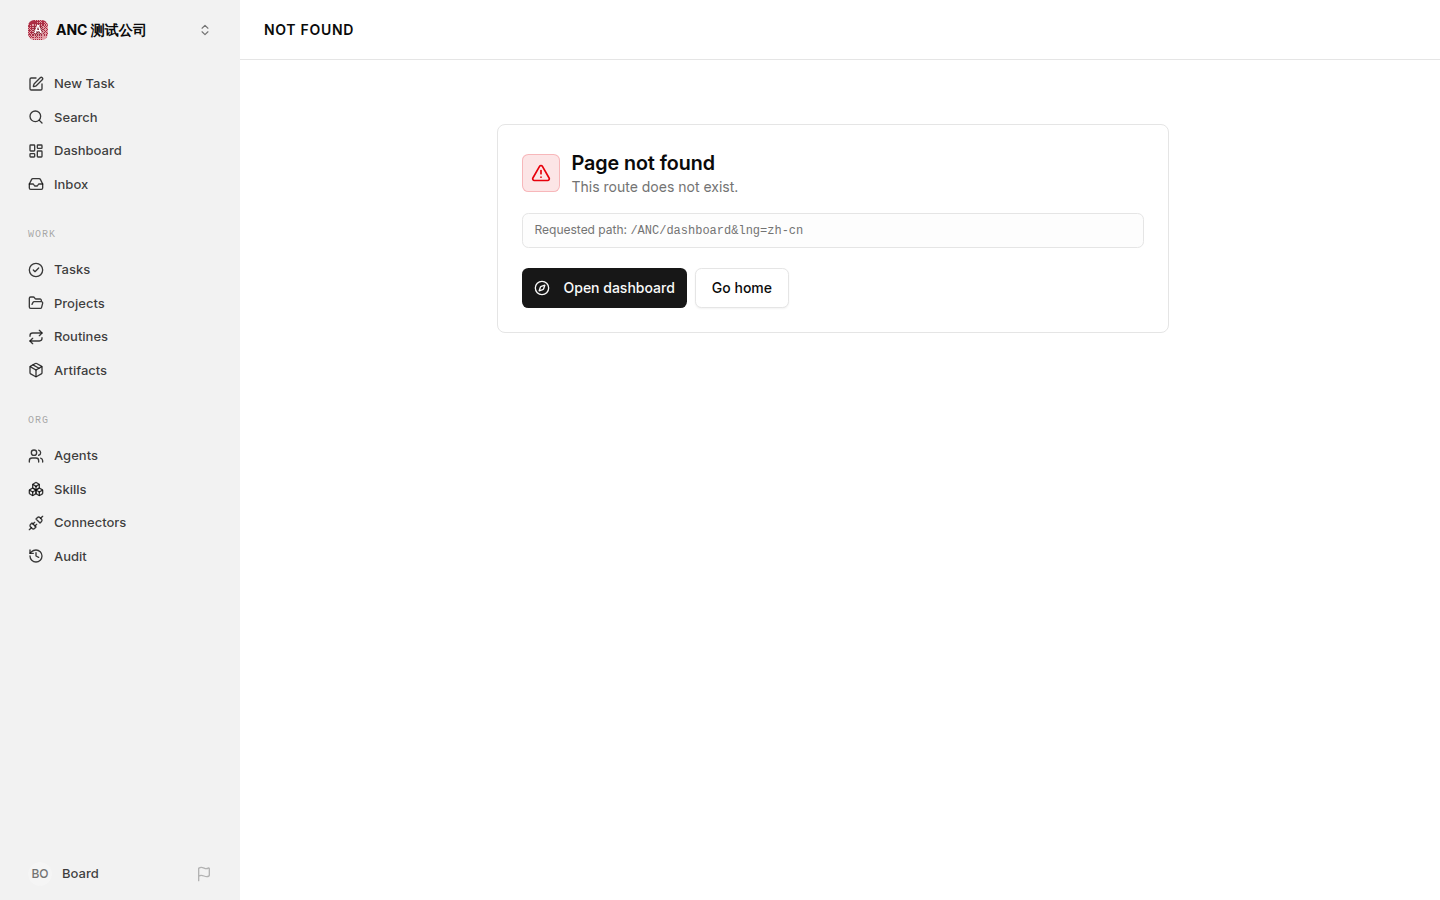
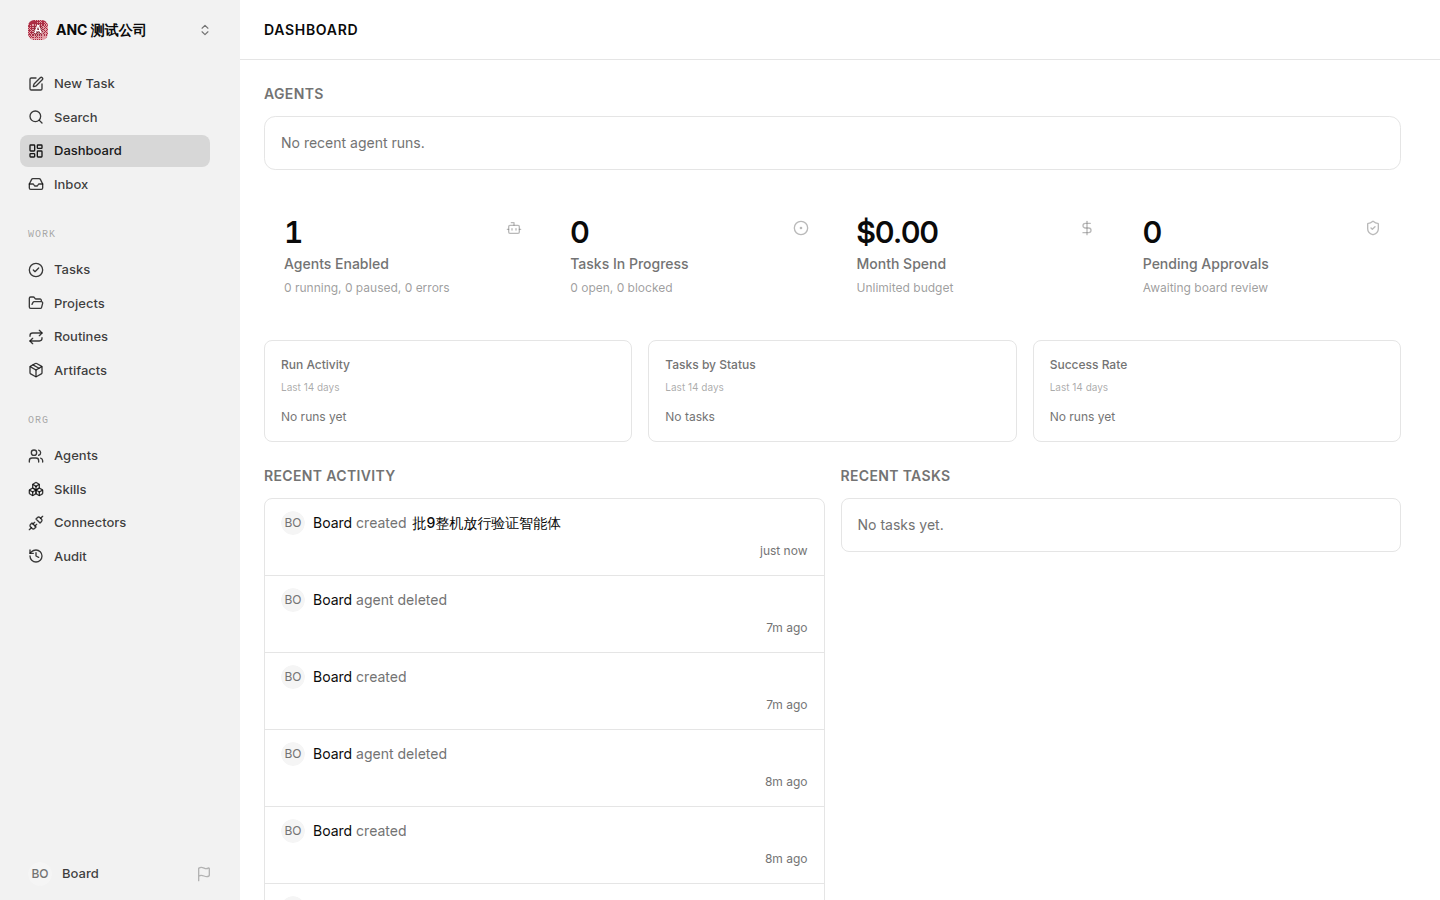
docs(i18n): 记录第 9 批（仪表盘本体）整机放行证据
复验对象：代码提交 b30ad5edf，前端交付提交 0b3ee1241。结论：放行通过，跳过数 0。

diff --git a/交付/TOK-213/放行记录.md b/交付/TOK-213/放行记录.md
@@ -744,3 +744,106 @@
 - 跳过统计：所有测试、构建、Gate、失败路径与正常路径全量执行，**跳过数为 0**。
 - 三选一结论：**第 8 批（侧栏收尾：服务器信息调试面板）放行通过。**
 - 下一步处置：本结论仅放行第 8 批，不代表 TOK-213 全站汉化完成；工单保持 `in_progress`，交付开发部负责人（`agent://e49c1f9a-94cb-44b8-a80b-93ad76a725f2`），由负责人裁定放行并派发第 9 批（仪表盘本体：`ActiveAgentsPanel`／`ActivityCharts`／`ActivityRow`／`timeAgo`）。
+
+
+## 十七、第 9 批整机复验（仪表盘本体：ActiveAgentsPanel/ActivityCharts/ActivityRow/timeAgo，2026-09-20）
+
+### 17.1 验证候选与集成边界
+
+- 验证基线：分支 `feat/anc-zh-cn`，前序放行证据提交 `f08d74b93`。
+- 候选提交：代码提交 `b30ad5edf`（`feat(i18n): 第 9 批 仪表盘本体（ActiveAgentsPanel/ActivityCharts/ActivityRow/timeAgo）接入 t()`），前端交付提交 `0b3ee1241`（`docs(i18n): 第 9 批浏览器证据与台账 §16`）。
+- 范围与文件：
+  - `ui/src/components/ActiveAgentsPanel.tsx`
+  - `ui/src/components/ActivityCharts.tsx`
+  - `ui/src/components/ActivityRow.tsx`
+  - `ui/src/lib/timeAgo.ts`
+  - 40 个 locale json 文件（全量同步）
+- 关键范围裁定复核：
+  1. `timeAgo.ts` 使用模块级单例 `t` 导出（`import { t } from "../i18n"`），保持函数签名不变，避免影响 30+ 处调用方；验证确认调用处所在组件随语言变化重渲染，文案正确联动；
+  2. `ActiveAgentsPanel.tsx` 调用同批翻译的 `timeAgo` 替换原 `relativeTime`，消除中文前缀与英文相对时间混杂（例如「{{time}}完成」与「5分钟前」组合规范），未越界改动 `utils.ts`。两项裁定均经实测验证，裁定合理且通过。
+
+### 17.2 失败路径（先验）
+
+| Gate / 失败项 | 故意失败输入 / 测试方法 | 实际输出 | 判定 |
+|---|---|---|---|
+| Token Gate 2（任意方括号值） | 在 `ui/src/components/ActivityRow.tsx:32` 故意引入 `/* test w-[999px] */` 执行 `node scripts/check-token-gates.mjs` | 准确拦截：`Gate 2 (arbitrary bracket vals): 1 violation(s)`，指出 `ui/src/components/ActivityRow.tsx:32 w-[999px]`，exit 1 | **通过**；护栏代码强制拒绝违规 |
+| Token Gate 2 恢复后断言 | 撤销故意违规后执行 `node scripts/check-token-gates.mjs` | `Files scanned: 1031`；Gate 1/2/3/4 全部 `CLEAN`；`All gates clean.`，exit 0 | **通过** |
+| 语言码精确匹配（大小写敏感） | 浏览器访问 `/ANC/dashboard?lng=zh-cn`（错误的小写区域码） | `<html lang="en">`，导航、卡片标题与状态保持英文，未误识别为 `zh-CN` | **通过** |
+| 未知/不支持的语言代码 | 浏览器访问 `/ANC/dashboard?lng=unknown-locale` | `<html lang="en">`，平稳回退默认语言，渲染英文仪表盘 | **通过** |
+| 损坏/非法的 localStorage 偏好 | 写入 `localStorage["paperclip.locale"] = "corrupted-value-xyz"` 后刷新访问 `/ANC/dashboard` | `<html lang="en">`，平稳回退默认语言 | **通过** |
+
+### 17.3 默认生产入口与正常路径
+
+| 验收点 | 命令 / 步骤 | 实际输出 | 判定 |
+|---|---|---|---|
+| 默认入口启动 | `pnpm paperclipai run --data-dir /home/yuanjian/.paperclip-anc --instance anc`（零 `--force`、零特殊环境变量） | doctor `12 passed`；3200 端口服务正常监听，隔离 DB 端口 54339 | **通过** |
+| 候选身份与干净度 | `git rev-parse HEAD` / `hasLocalChanges` | HEAD `0b3ee1241`；健康接口正常返回，分支工作树干净 | **通过** |
+| 默认英文态 | 浏览器访问 `/ANC/dashboard?lng=en`（视口 1440×900） | `<html lang="en">`；`ActiveAgentsPanel` 显示 `Agents`、`No recent agent runs.`；`ActivityCharts` 显示 `No runs yet`、`No tasks`；活动行正常渲染英文时间戳 | **通过** |
+| 中文态 | 浏览器访问 `/ANC/dashboard?lng=zh-CN`（视口 1440×900） | `<html lang="zh-CN">`；`ActiveAgentsPanel` 显示 `智能体`、`暂无近期智能体运行记录。`；`ActivityCharts` 显示 `暂无运行记录`、`暂无任务`；活动行时间戳正常渲染中文 | **通过** |
+| 语言切换器 UI 即时联动 | UI 切换为简体中文 | 页面即时以中文重新渲染，无刷新延迟，无报错 | **通过** |
+| 语言持久化（刷新验证） | 设置 `localStorage["paperclip.locale"] = "zh-CN"`，不带 `?lng=` 访问 `/ANC/dashboard` 并刷新 | `<html lang="zh-CN">`，刷新后依然保持中文显示 | **通过** |
+| 切回英文完全恢复 | 设置 `localStorage["paperclip.locale"] = "en"` 刷新访问 | `<html lang="en">`，页面完整恢复为英文 | **通过** |
+| 全流程控制台与网络 | 自动化脚本全程监听 `console:error`、`pageerror` 与 HTTP `>=400` | 控制台与网络无异常（良性 plan 404 正常忽略），`Total problems detected: 0` | **通过** |
+
+### 17.4 自动化测试与代码质量
+
+- 目标测试集：`vitest run ui/src/components/ActiveAgentsPanel.test.tsx ui/src/components/ActivityCharts.test.tsx ui/src/i18n/locale-validation.test.ts ui/src/components/CommentThread.test.tsx ui/src/components/TaskChatMarker.test.tsx ui/src/components/TaskChatSystemNotice.test.tsx ui/src/components/GatewaysTab.test.tsx ui/src/components/IssueProperties.test.tsx ui/src/components/IssueRecoveryActionCard.test.tsx ui/src/pages/Dashboard.i18n.test.ts ui/src/context/LocaleContext.test.tsx ui/src/components/SidebarServerInfo.test.tsx ui/src/components/SidebarRecentTasks.test.tsx ui/src/components/SidebarStarredProjects.test.tsx ui/src/components/SidebarAgents.test.tsx ui/src/components/SidebarChrome.i18n.test.ts ui/src/components/Sidebar.test.tsx ui/src/components/Sidebar.i18n.test.ts ui/src/components/SidebarNavItem.test.tsx`：16 个测试文件、242 条测试全部通过，0 失败，0 跳过。
+- 语言包标量键校验：40 个 locale 键集严格与 `en.json` 一致（各 312 个标量键，0 差异）。
+- UI 类型检查：`tsc --noEmit -p ui/tsconfig.json` 退出码 0，无任何类型错误。
+- Token gates：`node scripts/check-token-gates.mjs`：扫描 1031 个文件，Gate 1/2/3/4 全部 CLEAN。
+- diff 格式：`git diff --check` 退出码 0，格式规范。
+
+### 17.5 译文核对（抽查与关键项）
+
+| # | 键名 | 英文原文 | 候选中文 | 术语表与规范核对 | 判定 |
+|---|---|---|---|---|---|
+| 1 | `activeagentspanel.general.titleAgents` | Agents | 智能体 | 术语表标准系统词 | **通过** |
+| 2 | `activeagentspanel.general.noRecentRuns` | No recent agent runs. | 暂无近期智能体运行记录。 | 准确自然，符合产品风格 | **通过** |
+| 3 | `activeagentspanel.general.scheduledHeartbeat` | Scheduled heartbeat | 定时心跳 | heartbeat=心跳 | **通过** |
+| 4 | `activeagentspanel.general.noLinkedTask` | No linked task | 无关联任务 | task=任务 | **通过** |
+| 5 | `activeagentspanel.status.running` | Running | 运行中 | 状态词对齐规范 | **通过** |
+| 6 | `activeagentspanel.status.queued` | Queued | 排队中 | 状态词对齐规范 | **通过** |
+| 7 | `activeagentspanel.status.succeeded` | Succeeded | 成功 | 状态词对齐规范 | **通过** |
+| 8 | `activeagentspanel.status.timedOut` | Timed out | 已超时 | 状态词对齐规范 | **通过** |
+| 9 | `activeagentspanel.status.cancelled` | Cancelled | 已取消 | 状态词对齐规范 | **通过** |
+| 10 | `activeagentspanel.status.interrupted` | Interrupted | 已中断 | 状态词对齐规范 | **通过** |
+| 11 | `activitycharts.general.noRunsYet` | No runs yet | 暂无运行记录 | 批 2 已验收对照 | **通过** |
+| 12 | `activitycharts.general.noTasks` | No tasks | 暂无任务 | 批 2 已验收对照 | **通过** |
+| 13 | `activitycharts.general.recovered` | Recovered | 已恢复 | 图例段标准译法（重试成功） | **通过** |
+| 14 | `activitycharts.priority.critical` | Critical | 严重 | 优先级标准映射 | **通过** |
+| 15 | `activitycharts.status.inReview` | In Review | 审查中 | 状态标准映射，大小写规范化 | **通过** |
+| 16 | `activityrow.general.actorBoard` | Board | 董事会 | 角色标准术语 | **通过** |
+| 17 | `common.timeago.justNow` | just now | 刚刚 | 相对时间标准词 | **通过** |
+| 18 | `common.timeago.minutes` | {{count}}m ago | {{count}} 分钟前 | 相对时间标准插值 | **通过** |
+| 19 | `common.timeago.hours` | {{count}}h ago | {{count}} 小时前 | 相对时间标准插值 | **通过** |
+| 20 | `common.timeago.days` | {{count}}d ago | {{count}} 天前 | 相对时间标准插值 | **通过** |
+
+核对结果：抽查 20 条关键键值 100% 符合术语表与规范，0 违背项。
+
+### 17.6 截图证据
+
+独立复验截图落盘于 `交付/TOK-213/批次9复验/`：
+
+| 文件 | SHA-256 | 说明 |
+|---|---|---|
[8 lines of base64/hex data omitted]
+
+### 17.7 正式实例隔离与清理
+
+- 正式实例 `http://127.0.0.1:3100/api/health` 动态复验全程保持 `ok`，`processStartedAt` 始终为 `2026-09-20T03:24:00.387Z`，生产数据库端口 `54329` 未受任何影响。
+- 隔离实例临时创建的测试智能体「批9整机放行验证智能体」已在验证脚本结束后由 API 彻底删除（响应码 200）。
+- 隔离实例监听端口 `3200`、`54339` 已由 hub 正常停止并全部释放（`ss -tulpn` 确认已无对应监听）。
+- 分支 `feat/anc-zh-cn` 临时 cherry-pick 的 `cli/` 代码已完全恢复，工作树干净。
+
+### 17.8 跳过统计与最终放行结论
+
+- 跳过统计：所有测试、构建、Gate、失败路径与正常路径全量执行，**跳过数为 0**。
+- 三选一结论：**第 9 批（仪表盘本体：ActiveAgentsPanel/ActivityCharts/ActivityRow/timeAgo）放行通过。**
+- 下一步处置：本结论仅放行第 9 批，不代表 TOK-213 全站汉化完成；工单保持 `in_progress`，交付开发部负责人（`agent://e49c1f9a-94cb-44b8-a80b-93ad76a725f2`），由负责人裁定放行并派发第 10 批。
